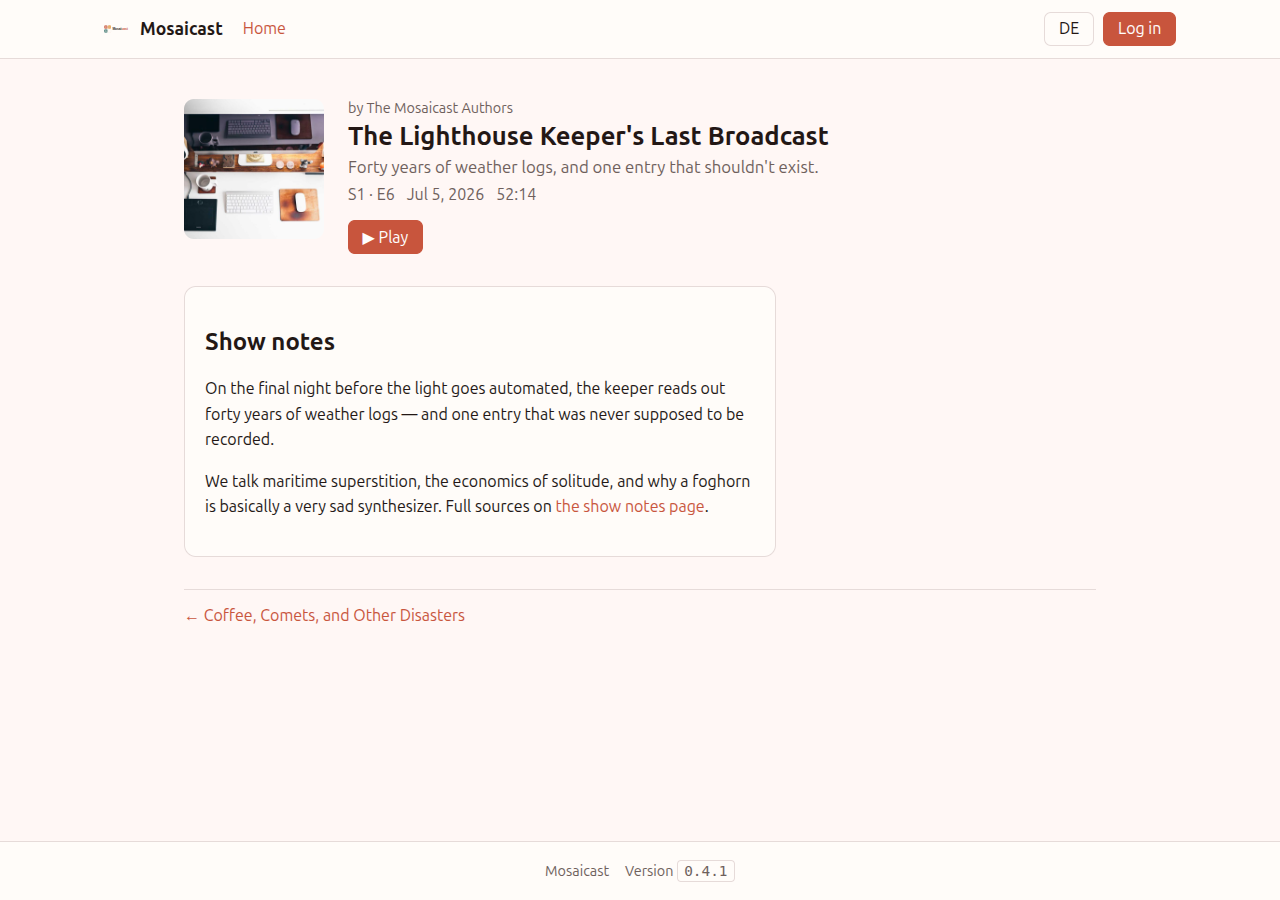
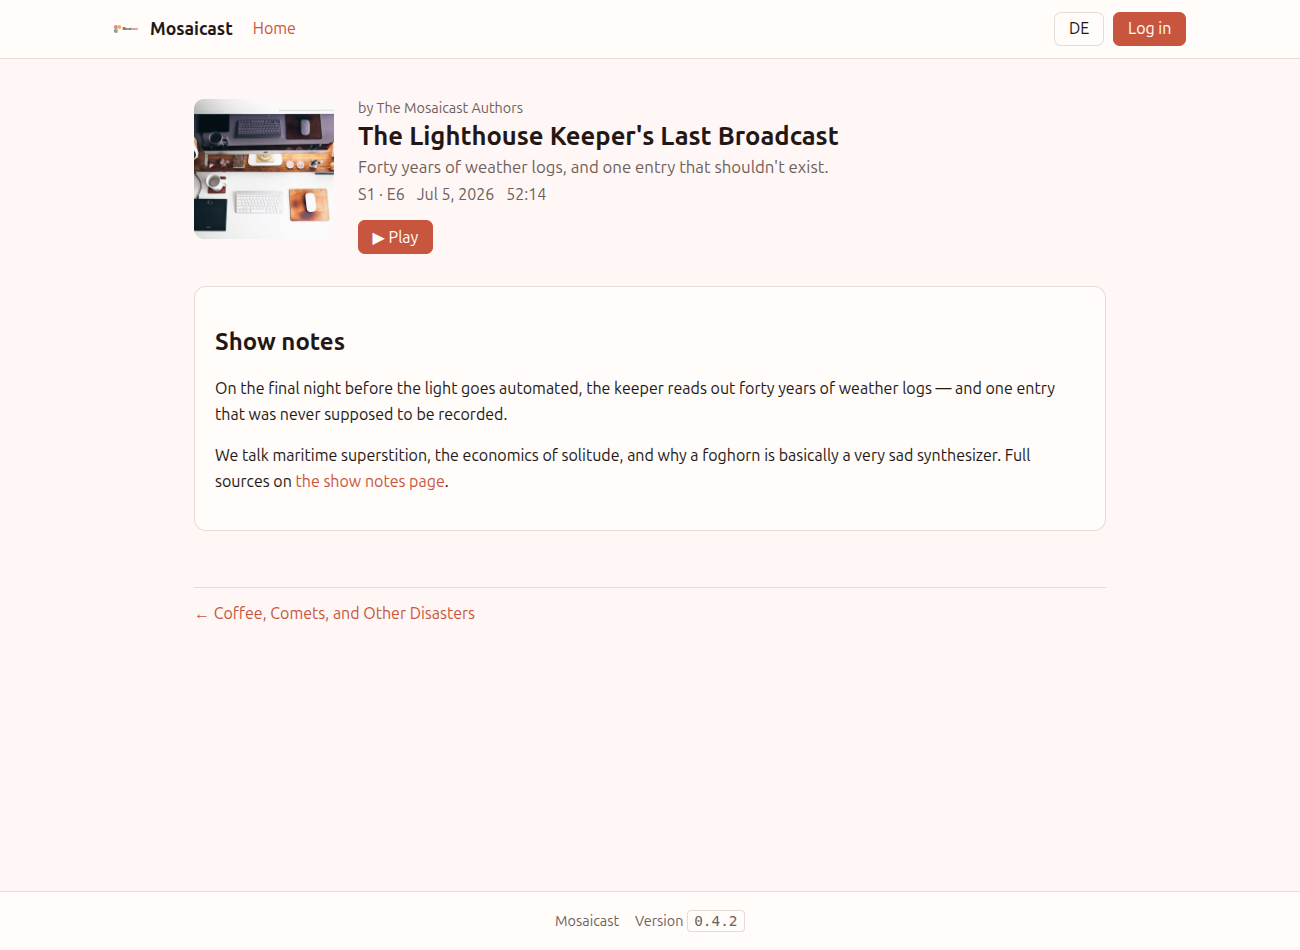
fix(shell): centre the episode detail (empty sidebar no longer skews it)
The detail grid reserved a sidebar column (main 2fr / sidebar 1fr), but the
sidebar is empty until E5 plugins mount — so the content sat in the left
two-thirds and read as off-centre. Default to a single centred column; when a
sidebar plugin actually mounts, `:has(.mc-detail__side .mc-slot:not(:empty))`
restores the two-column split. Detail screenshots refreshed.

Claude-Session: https://claude.ai/code/session_01RqUzpeS72TTHwjfPNMHCa6

diff --git a/frontend/src/styles.css b/frontend/src/styles.css
@@ -465,11 +465,16 @@ code {
 
 .mc-detail {
   display: grid;
-  grid-template-columns: 2fr 1fr;
+  /* Single centered column until the sidebar actually has content — an empty sidebar column would skew the
+     main content left (off-centre). When a sidebar plugin mounts (E5), :has() restores the two-column split. */
+  grid-template-columns: minmax(0, 1fr);
   gap: 1.5rem;
 }
+.mc-detail:has(.mc-detail__side .mc-slot:not(:empty)) {
+  grid-template-columns: minmax(0, 2fr) 1fr;
+}
 @media (max-width: 820px) {
-  .mc-detail {
+  .mc-detail:has(.mc-detail__side .mc-slot:not(:empty)) {
     grid-template-columns: 1fr;
   }
 }
